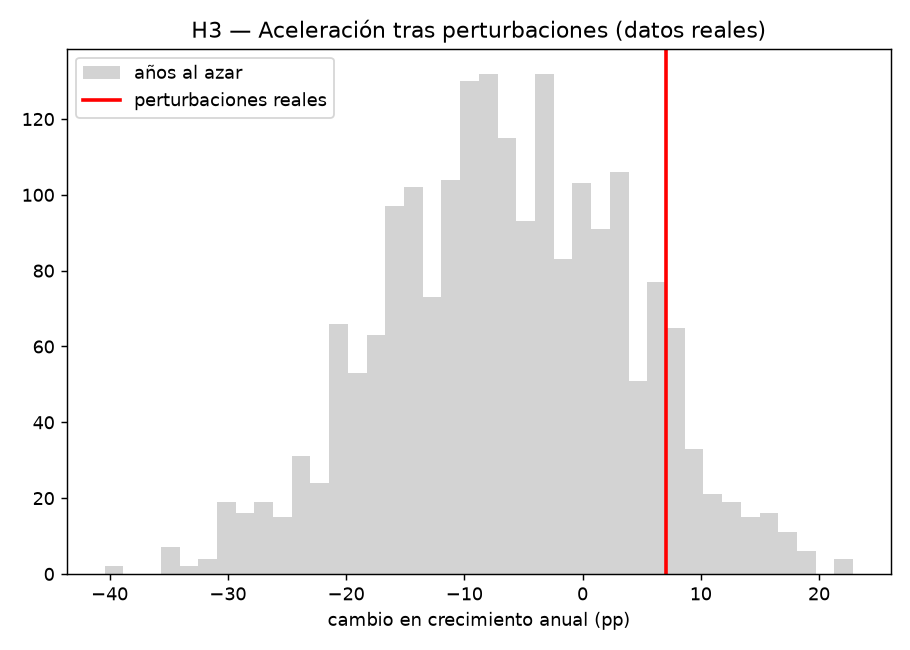
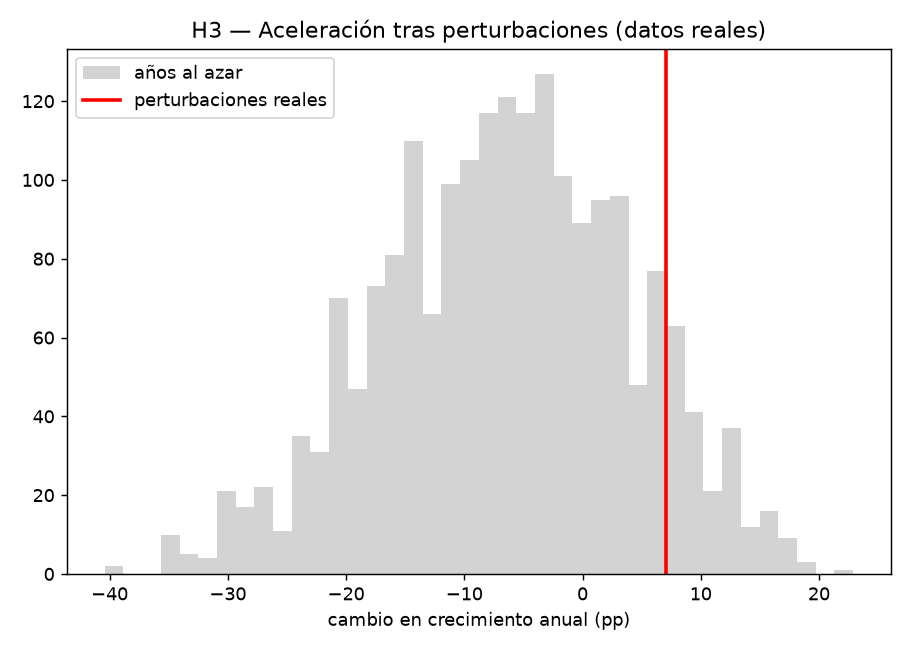
Actualización automática 2026-09-16

diff --git a/docs/resultados/reporte.md b/docs/resultados/reporte.md
@@ -34,7 +34,7 @@ Se usa solo la parte psicológica del HDF (ansiedad, soledad y/o depresión). In
 
 - Correlación en niveles: r = 0.893 (engañosa: dos series que suben juntas siempre correlacionan).
 - Correlación en cambios año a año: r = 0.650
-- Significancia contra 1000 surrogates IAAFT: p = 0.0430
+- Significancia contra 1000 surrogates IAAFT: p = 0.0310
 
 **Veredicto H2: SUPERA LA PRUEBA.** Cuando la conectividad sube más rápido, el desajuste psicológico también.
 
@@ -44,8 +44,8 @@ Estudio de eventos: crecimiento de I en los 5 años posteriores menos los 5 año
 
 - Eventos analizados: 3
 - Aceleración observada: +7.02 puntos porcentuales de crecimiento anual
-- Aceleración típica en años al azar: -6.51 pp
-- p = 0.0960
+- Aceleración típica en años al azar: -6.56 pp
+- p = 0.1024
 
 **Veredicto H3: NO SUPERA LA PRUEBA.** Las perturbaciones no muestran una aceleración distinta a la de años al azar.
 
